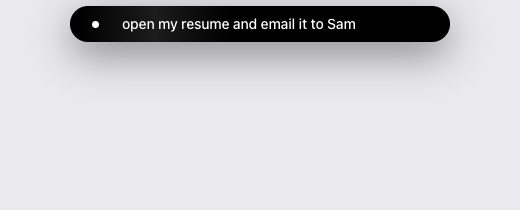
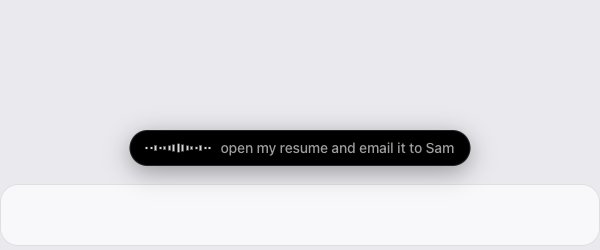
feat(island): Wispr Flow–style pill at the bottom, live voice waveform
The ⌥Space overlay is now a small black capsule centered just above the
Dock (its height comes from the display's work area). It is as wide as
its one line and animates its width as the words change. While you talk,
15 thin bars follow your mic: the newest level sits in the middle and
older ones ripple outward; silence shows as a row of dots. Thinking is
the same bars rippling. Acting shows a dot, done shows a green check
plus Undo, and long answers go to a card above the pill. Live words keep
their newest end in view.

The notch island stays: menu bar → "Show Dixi at the top (in the notch)".

Measured offscreen (eval/island-shots.mjs):
- thinking first frame: p50 5.5 ms (was 5.4)
- listening fully in: p50 72 ms
- idle CPU: 0.04 % (was 0.15)
- thinking CPU: 0.18 %
The bars no longer drop to the floor on every new live word.

Shots: docs/ui/island-pill-*, island-notch-dark-*. The shot stand-ins now
draw through CSSOM: the overlay's CSP was blocking them. Tests 432/432.

diff --git a/electron/src/renderer/everywhere/overlay.css b/electron/src/renderer/everywhere/overlay.css
@@ -1,11 +1,14 @@
-/* Dixi Everywhere: the island. Opaque black so it merges with the hardware notch (ADDENDUM A6): flush to
-   the top edge, square top corners, rounded bottom ones, wider than the notch. Without a notch it is the
-   same black pill at top-center. Motion: transform and opacity only, 200 ms or less, nothing runs while idle. */
+/* Dixi Everywhere: the Flow pill. A small opaque-black capsule at bottom-center, just above the Dock, with a
+   live waveform of your voice; it widens only as far as its one line needs, then folds back. "Island at the top"
+   (menu bar) puts it in the notch instead (ADDENDUM A6): flush to the top edge, rounded bottom corners, or a
+   top-center pill without a notch. Motion: transform, opacity and the pill's width, 200 ms or less; nothing
+   runs while idle. */
 :root {
   --w: min(380px, calc(100vw - 32px));
   --row: 36px;
   --notch-h: 0px;
   --top: 6px;
+  --dock: 0px;   /* the Dock's height on this display (main sends it), so the pill sits just above it */
   --h: var(--row);
   font: 500 var(--t-m)/1.35 var(--font);
   color: var(--ink);
@@ -15,12 +18,18 @@ html, body { margin: 0; height: 100%; background: transparent; overflow: hidden;
 button { font: inherit; color: inherit; border: 0; cursor: pointer; }
 :focus-visible { outline: 2px solid var(--ink); outline-offset: 2px; }
 
-/* ---- the island ---- */
+/* ---- the pill (default): bottom-center, as wide as its content (overlay.js sets --pw) ---- */
 .island {
-  position: fixed; top: var(--top); left: 50%; width: var(--w); height: var(--h); margin-left: calc(var(--w) / -2);
-  background: var(--black); border-radius: calc(var(--row) / 2); box-shadow: var(--shadow);
-  transform-origin: 50% 0; transition: transform var(--dur) var(--ease), opacity var(--dur) var(--ease);
+  position: fixed; bottom: calc(var(--dock) + 14px); left: 50%; width: var(--pw, 96px); max-width: calc(100vw - 32px); height: var(--row);
+  translate: -50% 0; background: var(--black); border-radius: calc(var(--row) / 2);
+  box-shadow: inset 0 0 0 1px rgba(255, 255, 255, 0.14), 0 6px 24px rgba(0, 0, 0, 0.35);
+  transform-origin: 50% 100%;
+  transition: transform var(--dur) var(--ease), opacity var(--fast) linear, width var(--dur) var(--ease);
 }
+.island[hidden] { display: block; opacity: 0; transform: scale(0.6, 0.5); pointer-events: none; transition-duration: var(--fast); }
+/* ---- at the top (menu bar setting): out of the notch, or a top-center pill; a fixed width ---- */
+html.top .island { top: var(--top); bottom: auto; width: var(--w); height: var(--h); transform-origin: 50% 0; box-shadow: var(--shadow); }
+html.top .island[hidden] { transform: scale(var(--sx, 0.9), var(--sy, 0.7)); }
 html.notch .island { border-radius: 0 0 var(--r-m) var(--r-m); box-shadow: none; }
 /* the notch's concave "ears" where the island meets the top edge, as on the hardware */
 html.notch .island::before, html.notch .island::after {
@@ -28,54 +37,53 @@ html.notch .island::before, html.notch .island::after {
 }
 html.notch .island::before { left: -8px; border-top-right-radius: 8px; box-shadow: 4px -4px 0 4px var(--black); }
 html.notch .island::after { right: -8px; border-top-left-radius: 8px; box-shadow: -4px -4px 0 4px var(--black); }
-.island[hidden] { display: block; opacity: 0; transform: scale(var(--sx, 0.9), var(--sy, 0.7)); pointer-events: none; }
 .row {
-  position: absolute; left: 0; right: 0; bottom: 0; height: var(--row); padding: 0 8px 0 14px;
-  display: flex; align-items: center; gap: 10px; transition: opacity var(--fast) linear 60ms;
+  position: absolute; left: 0; bottom: 0; width: max-content; box-sizing: border-box; height: var(--row); padding: 0 16px;
+  display: flex; align-items: center; justify-content: center; gap: 10px; transition: opacity var(--fast) linear 60ms;
 }
+html.top .row { right: 0; width: auto; justify-content: flex-start; padding: 0 8px 0 14px; }
 .island[hidden] .row { opacity: 0; transition-delay: 0ms; }
-[data-state="listening"] .row { transition-duration: 80ms; transition-delay: 0ms; }   /* "Listening…" fully in by 80 ms */
-#text { flex: 1; min-width: 0; margin: 0; white-space: nowrap; overflow: hidden; text-overflow: ellipsis; letter-spacing: -0.01em; }
+[data-state="listening"] .row { transition-duration: 80ms; transition-delay: 0ms; }   /* the waveform is fully in by 80 ms */
+.row:has(#undo:not([hidden])) { padding-right: 5px; }
+#text { flex: 0 1 auto; max-width: 340px; min-width: 0; margin: 0; white-space: nowrap; overflow: hidden; text-overflow: ellipsis; letter-spacing: -0.01em; }
+html.top #text { flex: 1; max-width: none; }
+html.large #text { max-width: 420px; }
+#text:empty { display: none; }   /* the pill is just the waveform until there are words */
+html.top #text:empty { display: block; }
 #text:empty::before { color: var(--ink-3); }
-[data-state="listening"] #text:empty::before { content: "Listening"; }
-[data-state="thinking"] #text:empty::before { content: "Thinking"; }
+html.top [data-state="listening"] #text:empty::before { content: "Listening"; }
+html.top [data-state="thinking"] #text:empty::before { content: "Thinking"; }
+[data-state="listening"] #text, [data-state="thinking"] #text { color: var(--ink-2); }   /* your words, as heard */
 [data-state="error"] #text { color: var(--red); }
-#text, .lead { padding-right: 6px; }
 
-/* leading mark: waveform (listening), dot (thinking, acting), check (done); none on an error */
-.lead { flex: none; width: 22px; height: 16px; display: grid; place-items: center; }
+/* leading mark: waveform (listening; it ripples while thinking), dot (acting), check (done); none on an error */
+.lead { flex: none; height: 18px; display: grid; place-items: center; }
 .lead > * { grid-area: 1 / 1; display: none; }
-[data-state="listening"] .wave, [data-state="thinking"] .dot, [data-state="acting"] .dot, [data-state="done"] .check { display: flex; }
+[data-state="listening"] .wave, [data-state="thinking"] .wave, [data-state="acting"] .dot, [data-state="done"] .check { display: flex; }
 [data-state="error"] .lead { display: none; }
-.wave { gap: 2px; align-items: center; height: 16px; }
-.wave i { width: 3px; height: 16px; border-radius: 2px; background: var(--ink); transform: scaleY(var(--l, 0.18)); transition: transform 80ms linear; }
+.wave { gap: 2.5px; align-items: center; height: 18px; }
+.wave i { width: 2px; height: 18px; border-radius: 1px; background: var(--ink); transform: scaleY(var(--l, 0.12)); transition: transform 70ms linear; }
+[data-state="thinking"] .wave i { animation: ripple 900ms ease-in-out calc(var(--d, 0) * 70ms) infinite; opacity: 0.85; }
 .dot { width: 7px; height: 7px; border-radius: 50%; background: var(--ink); }
 [data-state="acting"] .dot { animation: pulse 900ms ease-in-out infinite alternate; }
-.check { width: 16px; height: 16px; fill: none; stroke: var(--ink); stroke-width: 2; stroke-linecap: round; stroke-linejoin: round; }
+.check { width: 16px; height: 16px; fill: none; stroke: var(--green); stroke-width: 2.2; stroke-linecap: round; stroke-linejoin: round; }
 @keyframes pulse { to { opacity: 0.35; } }
-
-/* thinking: one soft band sweeps the island (transform only); appears on the first frame */
-.shimmer { position: absolute; inset: 0; overflow: hidden; pointer-events: none; border-radius: inherit; display: none; }
-[data-state="thinking"] .shimmer { display: block; }
-.shimmer::before {
-  content: ""; position: absolute; top: 0; bottom: 0; left: 0; width: 40%;
-  background: linear-gradient(90deg, transparent, rgba(255, 255, 255, 0.11), transparent);   /* a highlight, not decoration */
-  transform: translateX(-100%); animation: sweep 1100ms linear infinite;
-}
-@keyframes sweep { to { transform: translateX(250%); } }
+@keyframes ripple { 0%, 100% { transform: scaleY(0.12); } 50% { transform: scaleY(0.55); } }   /* a wave out from the middle: "working on it" */
 
 .quiet { flex: none; height: 26px; padding: 0 12px; border-radius: 13px; font-size: var(--t-s); font-weight: 600; background: rgba(255, 255, 255, 0.14); }
 .quiet:hover { background: rgba(255, 255, 255, 0.2); }
 .quiet:active { background: rgba(255, 255, 255, 0.08); }
 .quiet[hidden] { display: none; }
 
-/* ---- the card slot under the island: collapses with it ---- */
+/* ---- the card slot: just above the pill (under the island at the top); collapses with it ---- */
 .card {
-  position: fixed; top: calc(var(--top) + var(--h) + 8px); left: 50%; width: var(--w); margin-left: calc(var(--w) / -2); box-sizing: border-box;
+  position: fixed; bottom: calc(var(--dock) + 14px + var(--row) + 8px); left: 50%; width: var(--w); margin-left: calc(var(--w) / -2); box-sizing: border-box;
   padding: 12px 14px; background: var(--base); border: 1px solid var(--hairline); border-radius: var(--r-m); box-shadow: var(--highlight), var(--shadow);
   transition: transform var(--dur) var(--ease), opacity var(--dur) var(--ease);
 }
-.card[hidden] { display: block; opacity: 0; transform: translateY(-6px); pointer-events: none; }
+.card[hidden] { display: block; opacity: 0; transform: translateY(6px); pointer-events: none; }
+html.top .card { top: calc(var(--top) + var(--h) + 8px); bottom: auto; }
+html.top .card[hidden] { transform: translateY(-6px); }
 #full { margin: 0; font-size: var(--t-m); line-height: 1.4; text-wrap: pretty; }
 #full:empty, #steps:empty, #hive:empty { display: none; }
 #steps, #hive { list-style: none; margin: 0; padding: 0; display: grid; gap: 6px; }
@@ -117,14 +125,16 @@ html.notch .island::after { right: -8px; border-top-left-radius: 8px; box-shadow
 
 @media (prefers-reduced-motion: reduce) {
   .island, .island[hidden], .card, .card[hidden] { transform: none; }
-  .shimmer::before, .dot, .mark, .mark.point::after, .label { animation: none !important; }
-  .shimmer::before { transform: none; width: 100%; background: rgba(255, 255, 255, 0.06); }   /* still reads as "thinking", without motion */
+  .island { transition: opacity var(--fast) linear; }
+  .wave i, .dot, .mark, .mark.point::after, .label { animation: none !important; }
+  [data-state="thinking"] .wave i { transform: scaleY(0.35); opacity: 0.5; }   /* still reads as "working", without motion */
   .cursor.on { animation: fade 900ms linear forwards; }
 }
 @keyframes fade { 0%, 75% { opacity: 1; } 100% { opacity: 0; } }
 
 /* Large text (menu bar setting) and high contrast (setting, or macOS "Increase contrast"). */
 html.large { --row: 44px; --t-m: 18px; --t-s: 15px; --w: min(460px, calc(100vw - 32px)); }
+html.contrast:not(.top) .island { box-shadow: inset 0 0 0 2px var(--ink); }
 html.contrast { --ink-2: #e6e6e6; --ink-3: #c8c8c8; --hairline: #fff; }
 html.contrast .card { border-width: 2px; }
 html.contrast :focus-visible { outline: 3px solid #ffd60a; outline-offset: 3px; }

diff --git a/electron/src/renderer/everywhere/overlay.js b/electron/src/renderer/everywhere/overlay.js
@@ -1,29 +1,36 @@
-// Draws what the main process sends: the island (listening, thinking, acting, done, error), the card
-// slot under it, rings on the real screen, and a ring where the agent clicks. The window ignores the
+// Draws what the main process sends: the pill (listening, thinking, acting, done, error), the card
+// slot beside it, rings on the real screen, and a ring where the agent clicks. The window ignores the
 // mouse except over the island and the card, so it never gets in the way of your apps.
 
 import { earconFor, play, canSound, cardAnswer } from './cues.js';
 
 const $ = (id) => document.getElementById(id);
 const root = document.documentElement;
-const pill = $('pill'), more = $('more');
+const pill = $('pill'), more = $('more'), row = pill.querySelector('.row');
 
 // Settings from the menu bar: large text, high contrast (also on with macOS "Increase contrast" unless
-// switched off), and sounds (on unless sounds === false).
+// switched off), sounds (on unless sounds === false), and the island at the top instead of the bottom pill.
 let prefs = {};
 const moreContrast = matchMedia('(prefers-contrast: more)');
 function applyPrefs() {
   root.classList.toggle('large', Boolean(prefs.large));
   root.classList.toggle('contrast', prefs.contrast ?? moreContrast.matches);
+  root.classList.toggle('top', Boolean(prefs.top));
   fold();
+  size();
 }
 moreContrast.addEventListener('change', applyPrefs);
 window.ew.on('ew:prefs', (p) => { prefs = p ?? {}; applyPrefs(); });
 
-// The notch (main/notch.js): the island grows out of it, and folds back into its exact size.
+// The pill is as wide as its one line, so it grows and folds smoothly (a CSS width transition) as the words change.
+function size() { pill.style.setProperty('--pw', `${Math.max(64, row.offsetWidth)}px`); }
+// The Dock (main sends its height on this display): the pill sits just above it.
+window.ew.on('ew:dock', (px) => root.style.setProperty('--dock', `${Math.max(0, Number(px) || 0)}px`));
+
+// At the top, the notch (main/notch.js): the island grows out of it, and folds back into its exact size.
 let notch = null;
 function fold() {
-  root.classList.toggle('notch', Boolean(notch));
+  root.classList.toggle('notch', Boolean(notch && prefs.top));
   if (notch) root.style.setProperty('--notch-h', `${notch.h}px`);
   const r = pill.getBoundingClientRect();   // its laid-out size (a transform doesn't change it)
   root.style.setProperty('--sx', notch && r.width ? (notch.w / r.width).toFixed(3) : '0.9');
@@ -51,10 +58,17 @@ window.ew.on('ew:speaking', (on) => { if (talking && !on) stoppedAt = performanc
 const announce = (where, text) => { if ($(where).textContent !== text) $(where).textContent = text; };
 const esc = (s) => String(s ?? '').replace(/[&<>"]/g, (c) => ({ '&': '&amp;', '<': '&lt;', '>': '&gt;', '"': '&quot;' })[c]);
 
-// The waveform: five bars follow the mic level (main sends ~15 per second, only while listening).
-const bars = [...pill.querySelectorAll('.wave i')];
-const SHAPE = [0.5, 0.8, 1, 0.75, 0.55];
-window.ew.on('ew:level', (v) => bars.forEach((b, i) => b.style.setProperty('--l', Math.max(0.18, Math.min(1, v * SHAPE[i] * (0.8 + Math.random() * 0.4))).toFixed(2))));
+// The waveform follows your voice (main sends the mic level ~15 times a second, only while listening): the
+// newest level is the middle bar and older ones ripple outward, tapering to the edges; silence is a row of dots.
+const bars = [...pill.querySelectorAll('.wave i')], mid = (bars.length - 1) / 2;
+bars.forEach((b, i) => b.style.setProperty('--d', Math.abs(i - mid)));   // thinking: the ripple starts in the middle too
+let heard = [];
+window.ew.on('ew:level', (v) => {
+  heard = [Math.min(1, 1.3 * Math.sqrt(Math.max(0, Number(v) - 0.02) || 0)), ...heard].slice(0, mid + 1);
+  bars.forEach((b, i) => { const d = Math.abs(i - mid); b.style.setProperty('--l', Math.max(0.12, (heard[d] ?? 0) * (1 - d / (mid + 3))).toFixed(2)); });
+});
+// Live words keep their newest end in view: "…and email it to Sam", never "open my resume and…".
+const tail = (t) => (t.length > 46 ? `…${t.slice(-45).replace(/^\S*\s+/, '')}` : t);
 
 // The card slot shows only when it has something: an answer longer than the island's line, steps, the
 // Claude team, or (careful mode only) a yes/no.
@@ -71,11 +85,12 @@ window.ew.on('ew:state', (s) => {
   if (s.state === 'idle') { pill.hidden = true; showMore(); $('marks').innerHTML = ''; return; }
   const view = s.state === 'hive' ? 'acting' : s.state;
   pill.dataset.state = view;
-  if (view === 'listening') bars.forEach((b) => b.style.removeProperty('--l'));
+  if (view === 'listening' && fresh) { heard = []; bars.forEach((b) => b.style.removeProperty('--l')); }
   pill.hidden = false;
   const running = (s.steps ?? []).findLast((x) => x.state === 'running')?.label;
   const line = (view === 'acting' ? running || s.text || s.title : s.text || (view === 'done' || view === 'error' ? s.title : '')) ?? '';
-  $('text').textContent = String(line).replace(/\s+/g, ' ').trim();
+  const words = String(line).replace(/\s+/g, ' ').trim();
+  $('text').textContent = view === 'listening' || view === 'thinking' ? tail(words) : words;
   $('undo').hidden = !(view === 'done' && s.undo);
   // The whole answer goes in the card when one line can't hold it; then the island says only what it's about
   // (✓ and a few words of the title), so the same sentence never shows twice.
@@ -85,12 +100,13 @@ window.ew.on('ew:state', (s) => {
   $('steps').innerHTML = (s.steps ?? []).length > 1 ? s.steps.map((x) => `<li data-state="${esc(x.state)}">${esc(x.label)}</li>`).join('') : '';
   $('hive').innerHTML = (s.hive ?? []).map((x) => `<li data-status="${esc(x.status)}"><b>${esc(x.task.slice(0, 70))}</b><span>${esc(x.step ?? '')}</span></li>`).join('');
   showMore();
+  size();
   if (s.state !== 'done') $('marks').innerHTML = '';
   // Live words while listening aren't read out as they arrive: only "listening" itself is.
   if (s.state === 'listening' && !fresh) return;
   const title = s.title ?? ({ listening: 'Dixi is listening', thinking: 'Dixi', acting: 'Dixi is on it', hive: 'Your Claude team' }[s.state] ?? 'Dixi');
-  const words = [title, s.text, running].filter(Boolean).join('. ');
-  if (now === 'guard') announce('assertive', words); else announce('polite', words);
+  const said = [title, s.text, running].filter(Boolean).join('. ');
+  if (now === 'guard') announce('assertive', said); else announce('polite', said);
 });
 $('undo').addEventListener('click', () => { $('undo').hidden = true; window.ew.undo(); });
 
@@ -131,7 +147,7 @@ window.ew.on('ew:card', (card) => {
   $('ask').hidden = !card;
   $('question').textContent = card?.question ?? '';
   announce('assertive', card ? `${card.question} Yes or no?` : '');
-  if (card) { pill.hidden = false; cardAt = performance.now(); earcon('card'); requestAnimationFrame(() => $('yes').focus()); }
+  if (card) { pill.hidden = false; size(); cardAt = performance.now(); earcon('card'); requestAnimationFrame(() => $('yes').focus()); }
   showMore();
 });
 const answer = (ok) => { if (!cardId) return; window.ew.approve(cardId, ok); cardId = null; };
@@ -152,7 +168,7 @@ document.addEventListener('keydown', (e) => {
   if (ok !== null && !e.repeat) answer(ok);
 });
 
-// Clicks reach the island and the card only while the pointer is over them; everywhere else they go to your apps.
+// Clicks reach the pill and the card only while the pointer is over them; everywhere else they go to your apps.
 for (const el of [pill, more]) {
   el.addEventListener('mouseenter', () => window.ew.mouse(true));
   el.addEventListener('mouseleave', () => window.ew.mouse(false));

diff --git a/electron/src/main/everywhere.js b/electron/src/main/everywhere.js
@@ -285,8 +285,9 @@ export function setupEverywhere({ config, spend, here, userData, getMainWindow, 
   const profileFile = path.join(userData, 'profile.json');
   const editProfile = () => openProfile(userData, () => say("Saved your profile. I'll read it back before I use it on a form."));
   const act = createActivityLog(userData);   // what Dixi did, on this Mac only (activity.js): "what did you do today?"
-  // How the panel looks and sounds (tray toggles): large text, high contrast (unset = follow macOS), sounds.
-  const look = () => ({ large: prefs.large, contrast: prefs.contrast, sounds: prefs.sounds });
+  // How the panel looks and sounds (tray toggles): large text, high contrast (unset = follow macOS), sounds, and
+  // where it sits: the bottom pill (default), or the island at the top, out of the notch.
+  const look = () => ({ large: prefs.large, contrast: prefs.contrast, sounds: prefs.sounds, top: prefs.islandTop });
   const toMain = (ch, d) => getMainWindow()?.webContents.send(ch, d);
   const say = (text) => { if (text) { state.saidAt = Date.now(); toMain('everywhere:say', String(text).slice(0, 400)); } };   // (saidAt: a reply on its way counts as busy)
   // Fast text answers (ask.js: Groq first, then fallbacks), your own things searched locally (index.js), long
@@ -324,7 +325,11 @@ export function setupEverywhere({ config, spend, here, userData, getMainWindow, 
   }
   // The notch of the display the overlay is on (notch.js): read with each new overlay window and when displays change.
   let screens = [];
-  const notchNow = () => ui('ew:notch', notchOf(screen.getDisplayMatching?.(state.bounds), screens));
+  const notchNow = () => {
+    const d = screen.getDisplayMatching?.(state.bounds);
+    ui('ew:notch', notchOf(d, screens));
+    if (d?.workArea) ui('ew:dock', d.bounds.y + d.bounds.height - d.workArea.y - d.workArea.height);   // the pill sits just above the Dock
+  };
   const renotch = coalesce(readScreens, (s) => { screens = s; notchNow(); });   // a burst of display events: one osascript at a time, newest wins
   for (const ev of ['display-added', 'display-removed', 'display-metrics-changed']) screen.on?.(ev, renotch);
   function overlayOn(bounds) {
@@ -1449,6 +1454,7 @@ export function setupEverywhere({ config, spend, here, userData, getMainWindow, 
   function setLook(key) {
     if (key === 'sounds') prefs.sounds = prefs.sounds === false;   // on unless turned off
     else if (key === 'contrast') prefs.contrast = prefs.contrast ? undefined : true;
+    else if (key === 'islandTop') prefs.islandTop = !prefs.islandTop;
     else prefs.large = !prefs.large;
     savePrefs(); menu(); ui('ew:prefs', look()); dashChanged();
   }
@@ -1568,6 +1574,7 @@ export function setupEverywhere({ config, spend, here, userData, getMainWindow, 
     { label: 'Large text', type: 'checkbox', checked: Boolean(prefs.large), click: () => setLook('large') },
     { label: 'High contrast', type: 'checkbox', checked: Boolean(prefs.contrast), click: () => setLook('contrast') },
     { label: 'Sounds', type: 'checkbox', checked: prefs.sounds !== false, click: () => setLook('sounds') },
+    { label: 'Show Dixi at the top (in the notch)', type: 'checkbox', checked: Boolean(prefs.islandTop), click: () => setLook('islandTop') },
     { type: 'separator' },
     { label: 'Screen Recording permission…', click: () => shell.openExternal('x-apple.systempreferences:com.apple.preference.security?Privacy_ScreenCapture') },
     { label: 'Accessibility permission…', click: () => systemPreferences.isTrustedAccessibilityClient(true) },

diff --git a/electron/src/renderer/everywhere/overlay.html b/electron/src/renderer/everywhere/overlay.html
@@ -16,21 +16,20 @@
   <p id="polite" class="sr" aria-live="polite"></p>
   <p id="assertive" class="sr" aria-live="assertive"></p>
 
-  <!-- The island: opaque black, grown out of the notch (or a pill at top-center without one). One line. -->
+  <!-- The pill: opaque black, bottom-center above the Dock (or, set in the menu bar, out of the notch). One line. -->
   <section id="pill" class="island" data-state="idle" aria-label="Dixi" hidden>
     <div class="row">
       <span class="lead" aria-hidden="true">
-        <span class="wave"><i></i><i></i><i></i><i></i><i></i></span>
+        <span class="wave"><i></i><i></i><i></i><i></i><i></i><i></i><i></i><i></i><i></i><i></i><i></i><i></i><i></i><i></i><i></i></span>
         <span class="dot"></span>
         <svg class="check" viewBox="0 0 16 16"><path d="M3.5 8.5l3 3 6-7"/></svg>
       </span>
       <p id="text"></p>
       <button id="undo" class="quiet" hidden>Undo</button>
     </div>
-    <i class="shimmer" aria-hidden="true"></i>
   </section>
 
-  <!-- The card slot under the island: a longer answer, steps, the Claude team; approval only in careful mode. -->
+  <!-- The card slot above the pill (under the island at the top): a longer answer, steps, the Claude team; approval only in careful mode. -->
   <section id="more" class="card" hidden>
     <p id="full"></p>
     <ol id="steps"></ol>
